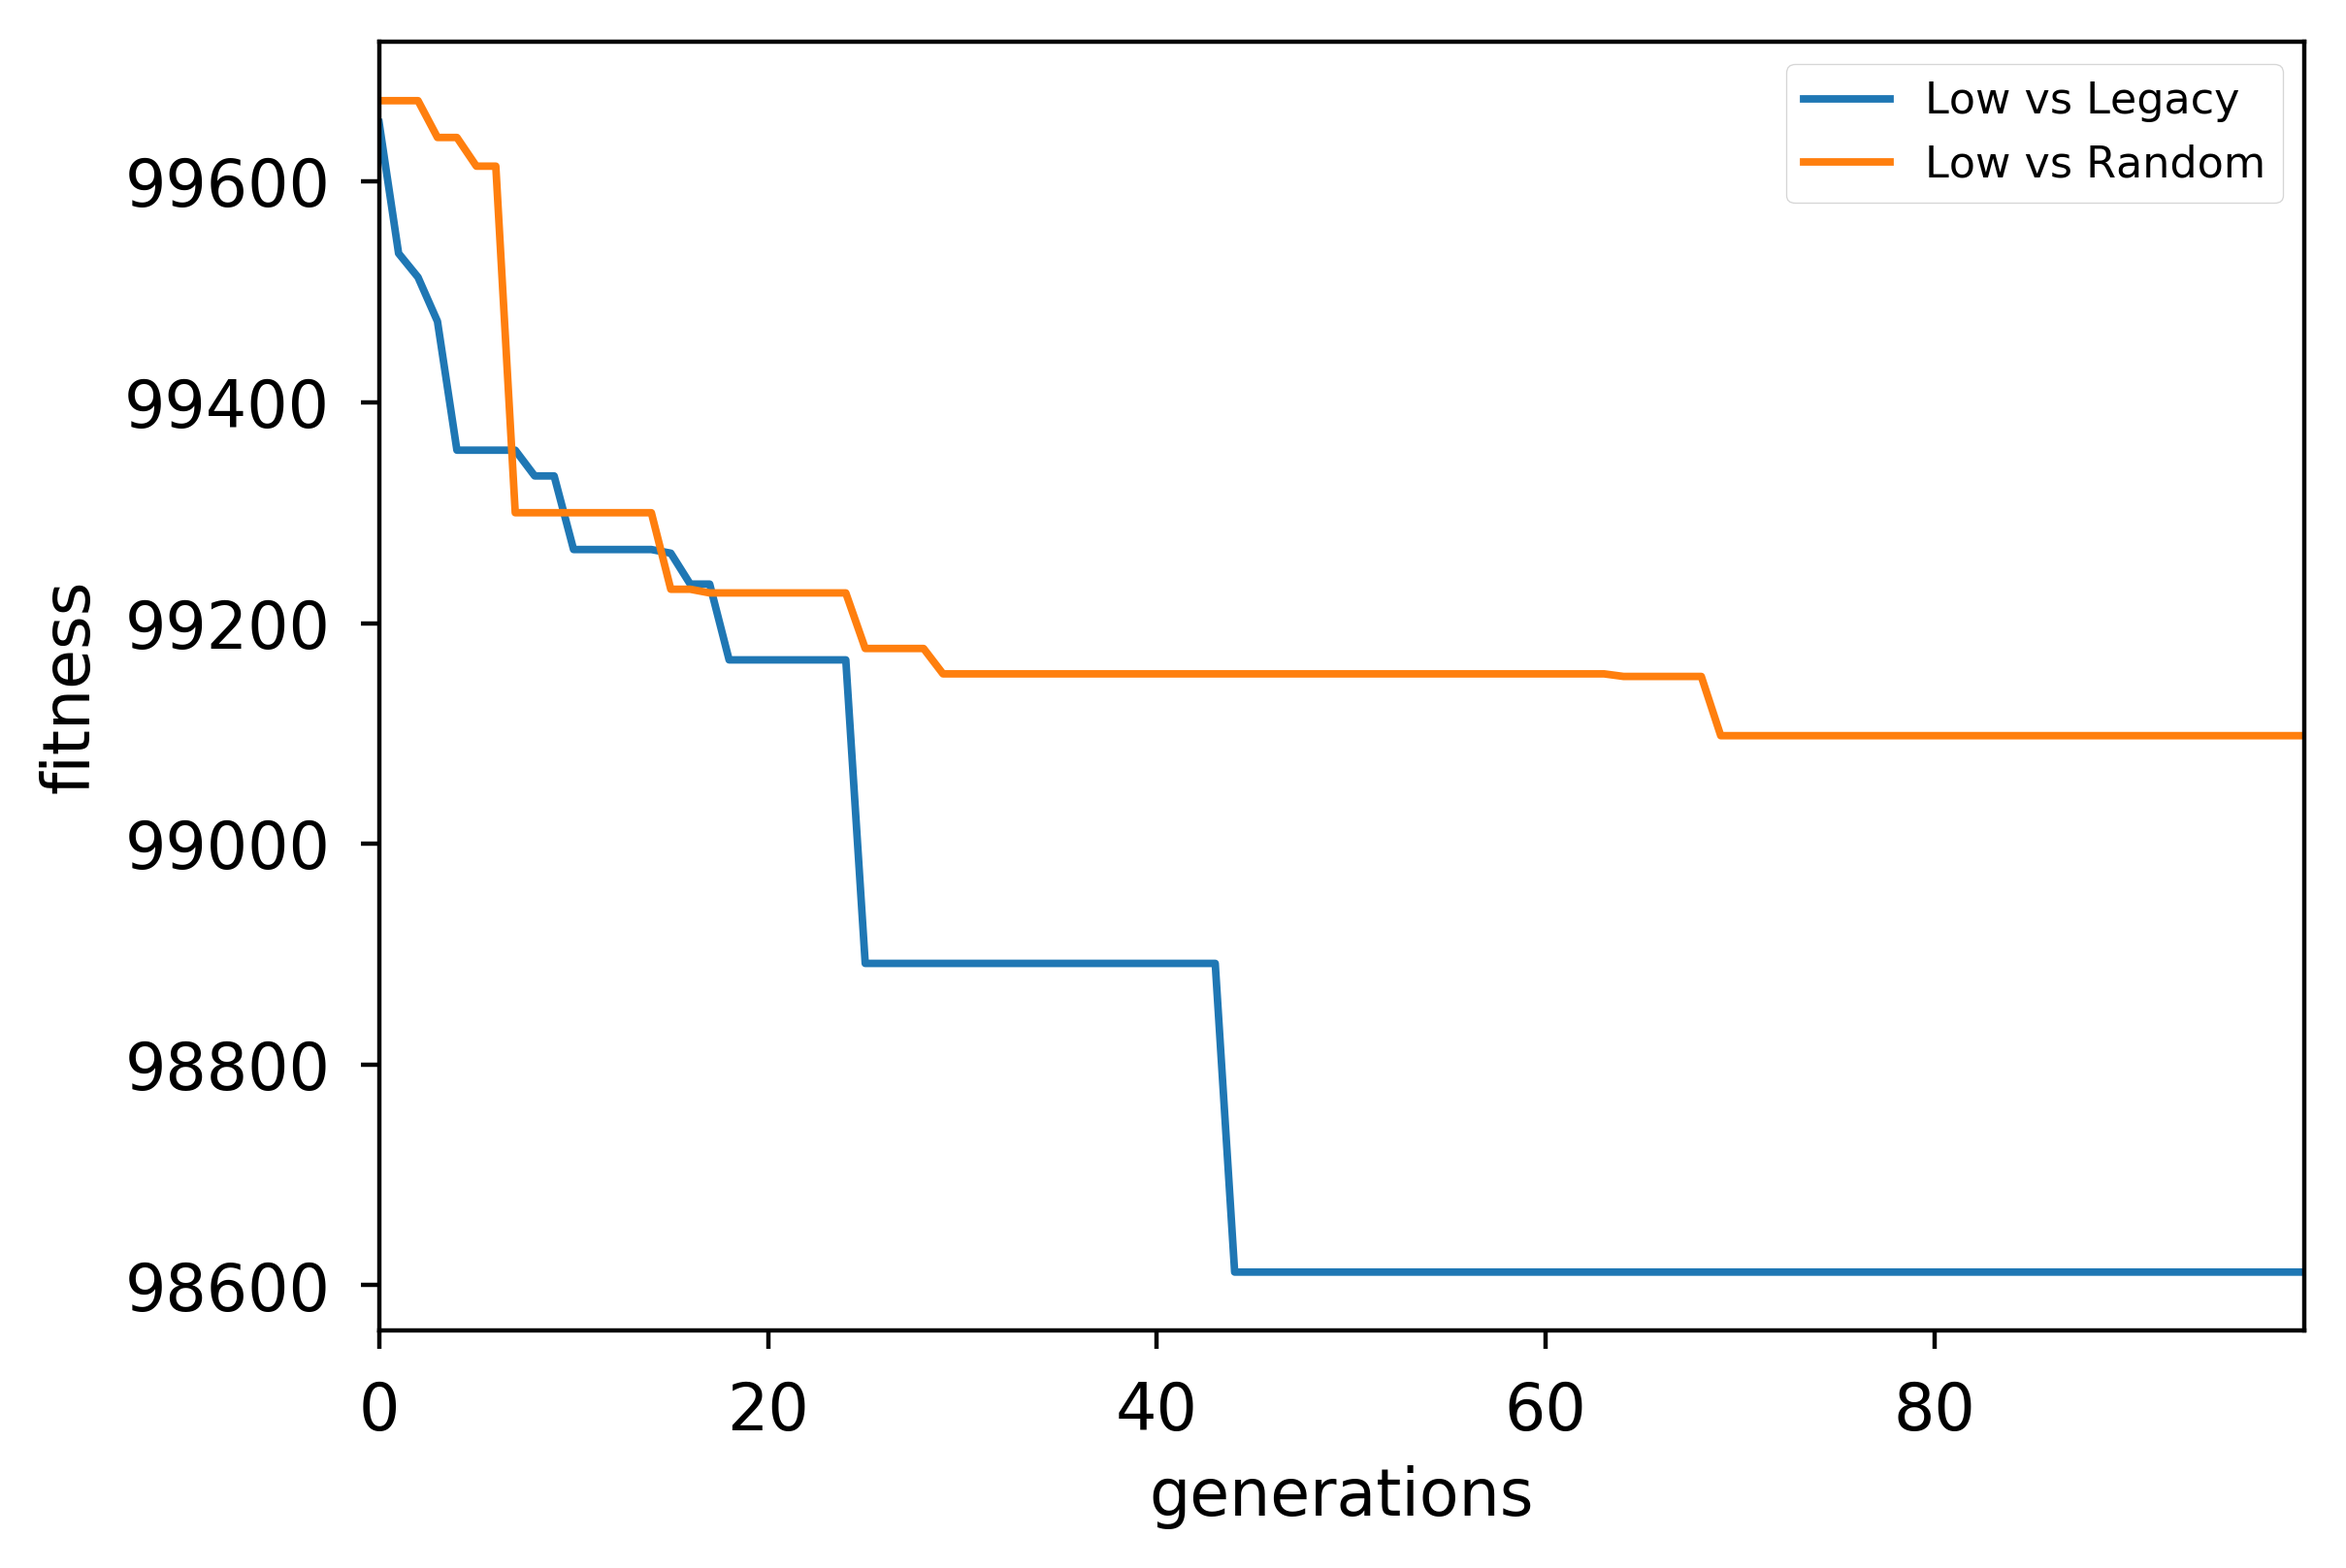
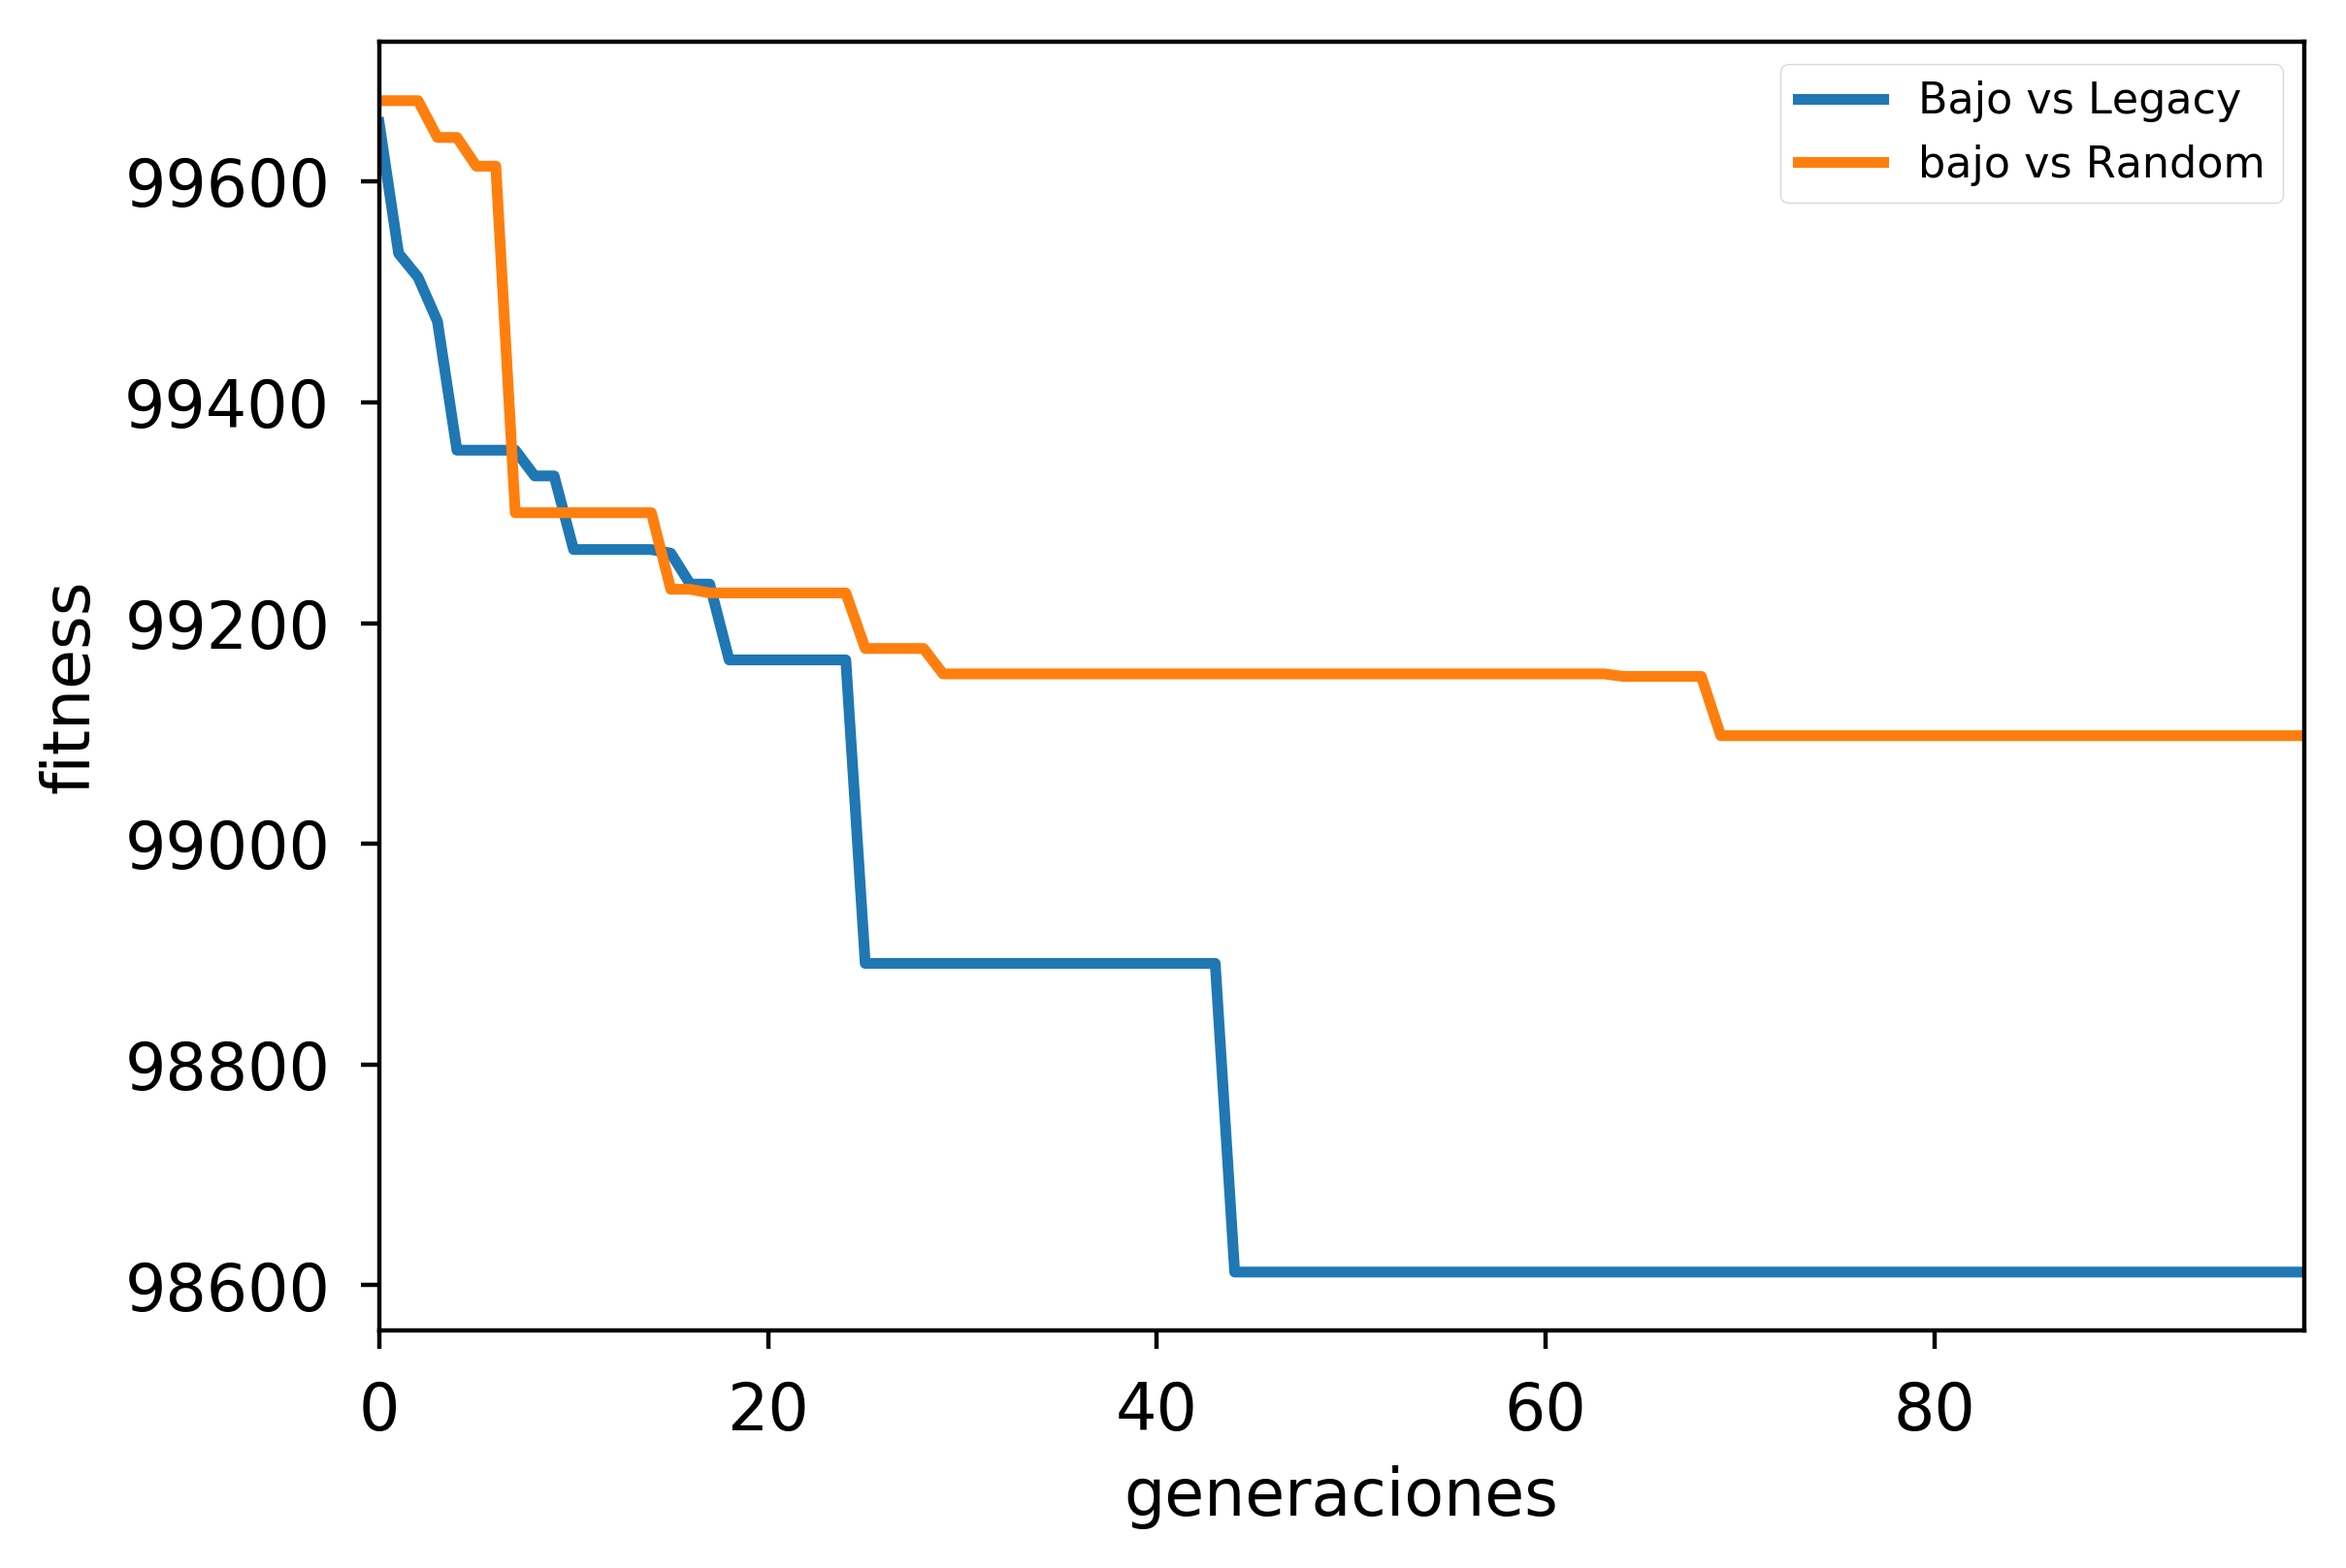
todas las gráficas arregladas

diff --git a/capitulos/bots_basados_en_arboles_de_decision.tex b/capitulos/bots_basados_en_arboles_de_decision.tex
@@ -505,8 +505,8 @@ Todo esto nos indica que para tareas en las que es importante obtener buenos res
 \begin{figure}[H]
 \centering
 \includegraphics[width=0.8\textwidth]{grafica/all_fitnesses}
-\label{grafica:comparacion-todas}
 \caption{Gráfica comparativa del \textit{fitness} del mejor individuo en las 50 primeras generaciones de la evolución de una misma población usando las gramáticas de bajo, medio y alto nivel contra dos controladores de fantasmas distintos (menos es mejor).}
+\label{grafica:comparacion-todas}
 \end{figure}
 
 Al comparar las cincuenta primeras generaciones de una misma población evolucionada con las gramáticas de bajo, medio y alto nivel observamos como la de bajo nivel se queda muy por encima de las gramáticas de medio y alto nivel (se está minimizando por lo que es peor). Entre los \textit{fitness} obtenidos con las gramáticas de medio y alto nivel se ve como la de medio nivel obtiene significativamente mejor resultado que la de alto nivel contra el controlador \textit{Random}. Sin embargo, contra el controlador \textit{Legacy} no hay una gran diferencia, la gramática de alto nivel se mantiene ligeramente por debajo de la gramática de medio nivel pero se aprecia como la de medio nivel se va aproximando al \textit{fitness} obtenido por la de alto nivel conforme pasan las generaciones.
@@ -514,8 +514,10 @@ Al comparar las cincuenta primeras generaciones de una misma población evolucio
 \begin{figure}[H]
 \centering
 \includegraphics[width=0.8\textwidth]{grafica/medium_vs_high}
-\label{grafica:comparacion-medium-vs-high}
 \caption{Gráfica comparativa del \textit{fitness} del mejor individuo en las 100 primeras generaciones de la evolución de una misma población usando las gramáticas de medio y alto nivel contra dos controladores de fantasmas distintos (menos es mejor).}
+\label{grafica:comparacion-medium-vs-high}
 \end{figure}
 
-Sin embargo, si observamos la gráfica que muestra las cien primeras generaciones vemos como efectivamente la gramática de medio nivel consigue sobrepasar a la gramática de alto nivel y obtener mejores resultados. En la mayoría de las ejecuciones hemos observado que la gramática de alto nivel consigue minimizar el \textit{fitness} rápidamente en las primeras generaciones pero se estanca relativamente pronto y no mejora en las subsecuentes generaciones. Sin embargo, la gramática de medio nivel muestra una minimización del \textit{fitness} más lenta pero continua, sin estancarse rápidamente, consiguiendo mejores resultados en evoluciones largas. Esto sugiere que para evoluciones en las que se busque obtener un rápido resultado o que no se disponga de una capacidad computacional suficiente para ejecutar el algoritmo durante varias generaciones en un tiempo asequible, se use la gramática de alto nivel. Si por el contrario se dispone de los recursos para poder ejecutar el algoritmo durante una mayor cantidad de generaciones, es recomendable, utilizar la gramática de medio nivel ya que obtendrá mejores resultados.
+No obstante, si observamos la gráfica que muestra las cien primeras generaciones vemos como efectivamente la gramática de medio nivel consigue sobrepasar a la gramática de alto nivel y obtener mejores resultados. En la mayoría de las ejecuciones hemos observado que la gramática de alto nivel consigue minimizar el \textit{fitness} rápidamente en las primeras generaciones pero se estanca relativamente pronto y no mejora en las subsecuentes generaciones. Sin embargo, la gramática de medio nivel muestra una minimización del \textit{fitness} más lenta pero continua, sin estancarse rápidamente, \textbf{consiguiendo mejores resultados en evoluciones largas}.
+
+Esto sugiere que para evoluciones en las que se busque obtener un rápido resultado o que no se disponga de una capacidad computacional suficiente para ejecutar el algoritmo durante varias generaciones en un tiempo asequible, se use la gramática de alto nivel. Si por el contrario se dispone de los recursos para poder ejecutar el algoritmo durante una mayor cantidad de generaciones, es recomendable, utilizar la gramática de medio nivel ya que obtendrá mejores resultados.
